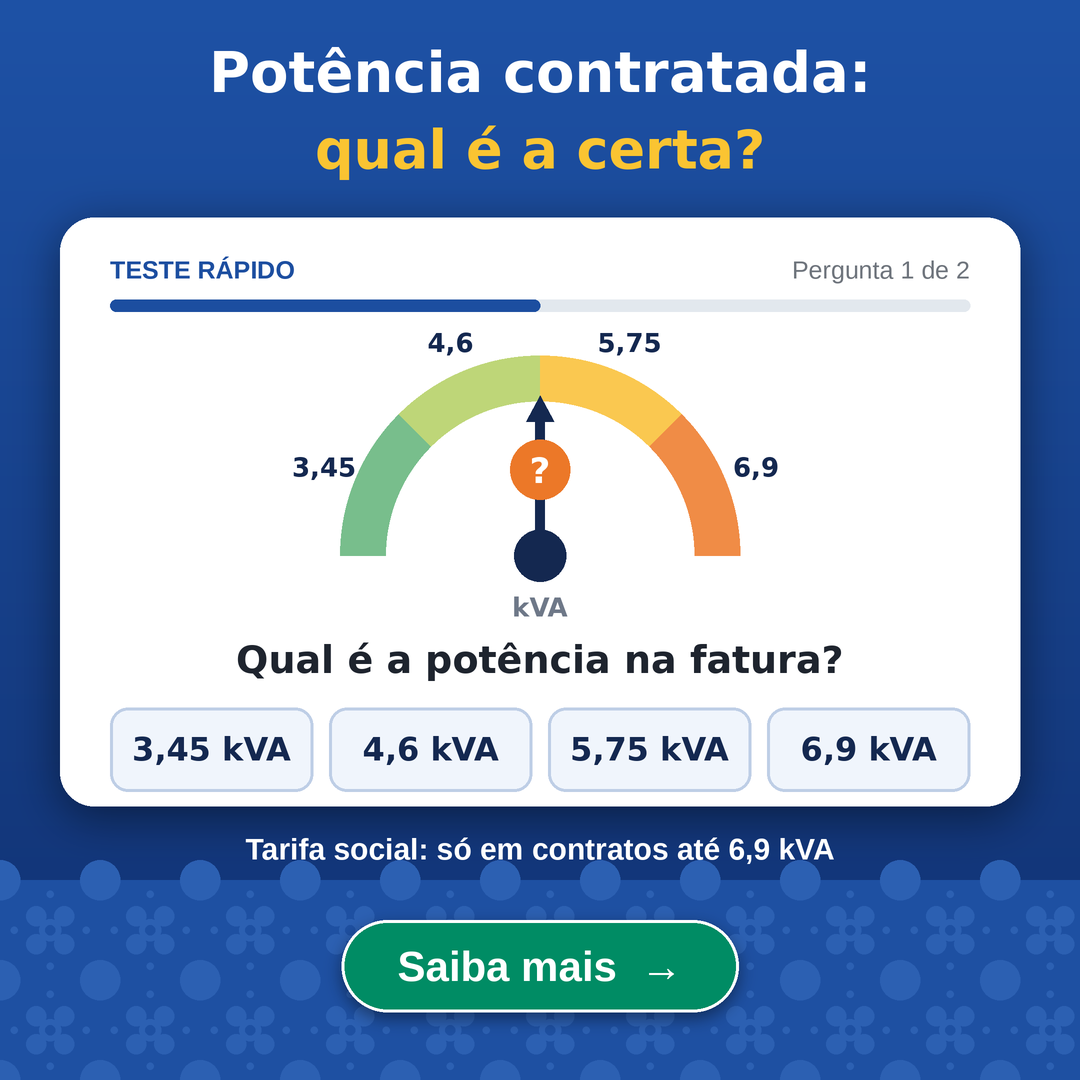
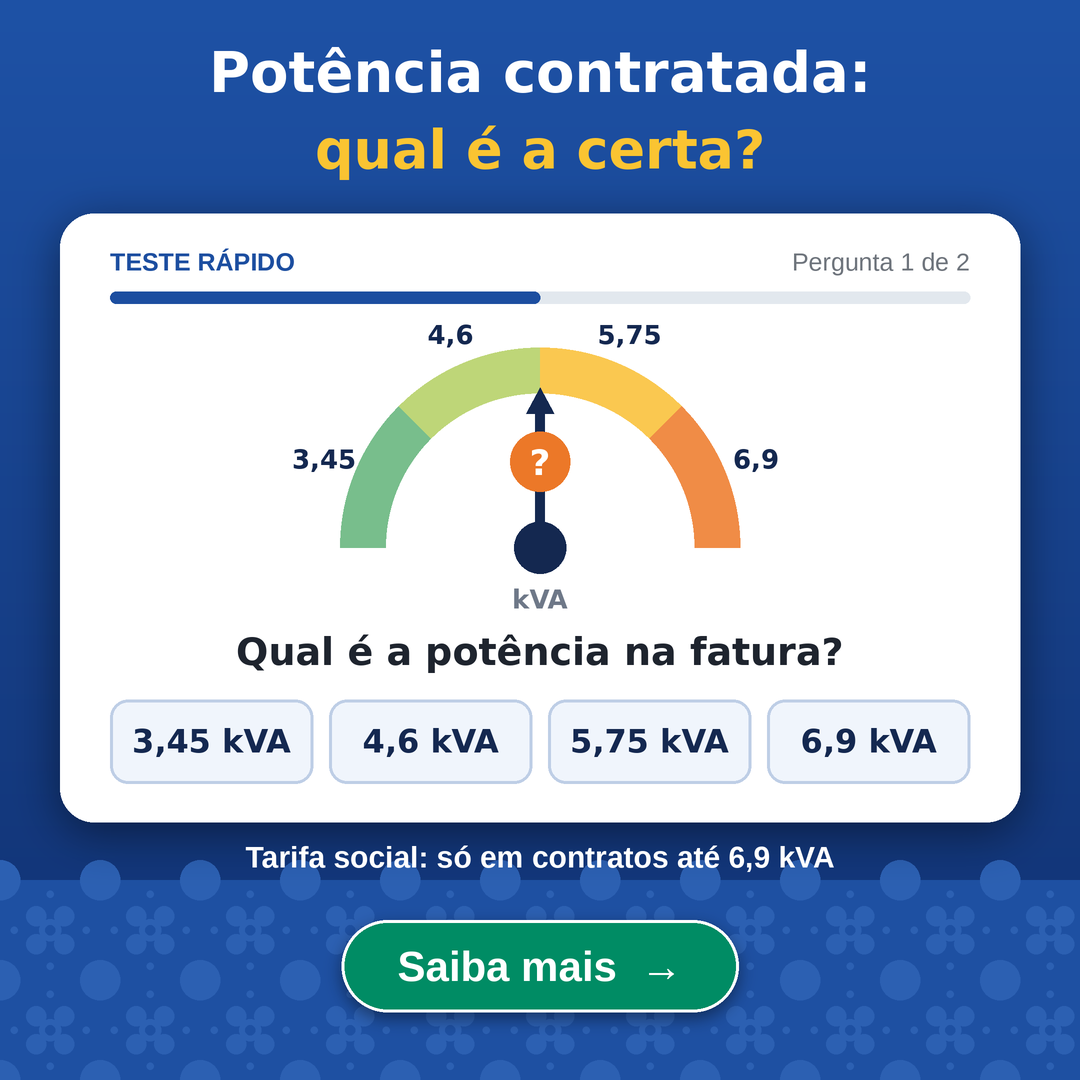
Packs wave 5: offer creatives in progress (redraw)
Claude-Session: https://claude.ai/code/session_01C37NqGH9zFdyb8ik1XzQDR

diff --git a/creatives/ready/2026-09-30_packs/src/w5_offers.py b/creatives/ready/2026-09-30_packs/src/w5_offers.py
@@ -1008,10 +1008,10 @@ def pt_gauge(P, t):
     azulejo_wall(c, (0, 880, W, W), 100, (44, 96, 178), (30, 80, 162))
     y = c.block(t["title"], "db", 56, 40, 980, WH, max_lines=1)
     y = c.block(t["title2"], "db", 54, y + 2, 980, YEL3, max_lines=1)
-    box = (60, y + 26, 1020, 806)
+    box = (60, y + 22, 1020, 822)
     c.card(box, r=34, sh_alpha=120, blur=22)
     x0, x1 = box[0] + 50, box[2] - 50
-    yy = box[1] + 38
+    yy = box[1] + 34
     c.text((x0, yy), t["tag"], "sb", 25, AZ3)
     c.text((x1, yy), t["step"], "s", 25, (110, 116, 124), anchor="ra")
     c.rect((x0, yy + 44, x1, yy + 56), fill=(226, 232, 238), r=6)
@@ -1041,7 +1041,7 @@ def pt_gauge(P, t):
         bx = x0 + k * (bw + g)
         c.rect((bx, yy, bx + bw, yy + 84), fill=(240, 245, 252), r=18, outline=(190, 206, 230), width=3)
         c.text((bx + bw / 2, yy + 42), o, "db", c.fit(o, "db", bw - 20, 1, 32), INK3, anchor="mm")
-    c.block(t["foot"], "sb", 30, 832, 980, WH, max_lines=1)
+    c.block(t["foot"], "sb", 30, 840, 980, WH, max_lines=1)
     c.button(P["cta"], W / 2, 966, size=42, fill=p["btn"], outline=WH)
     return c
 
